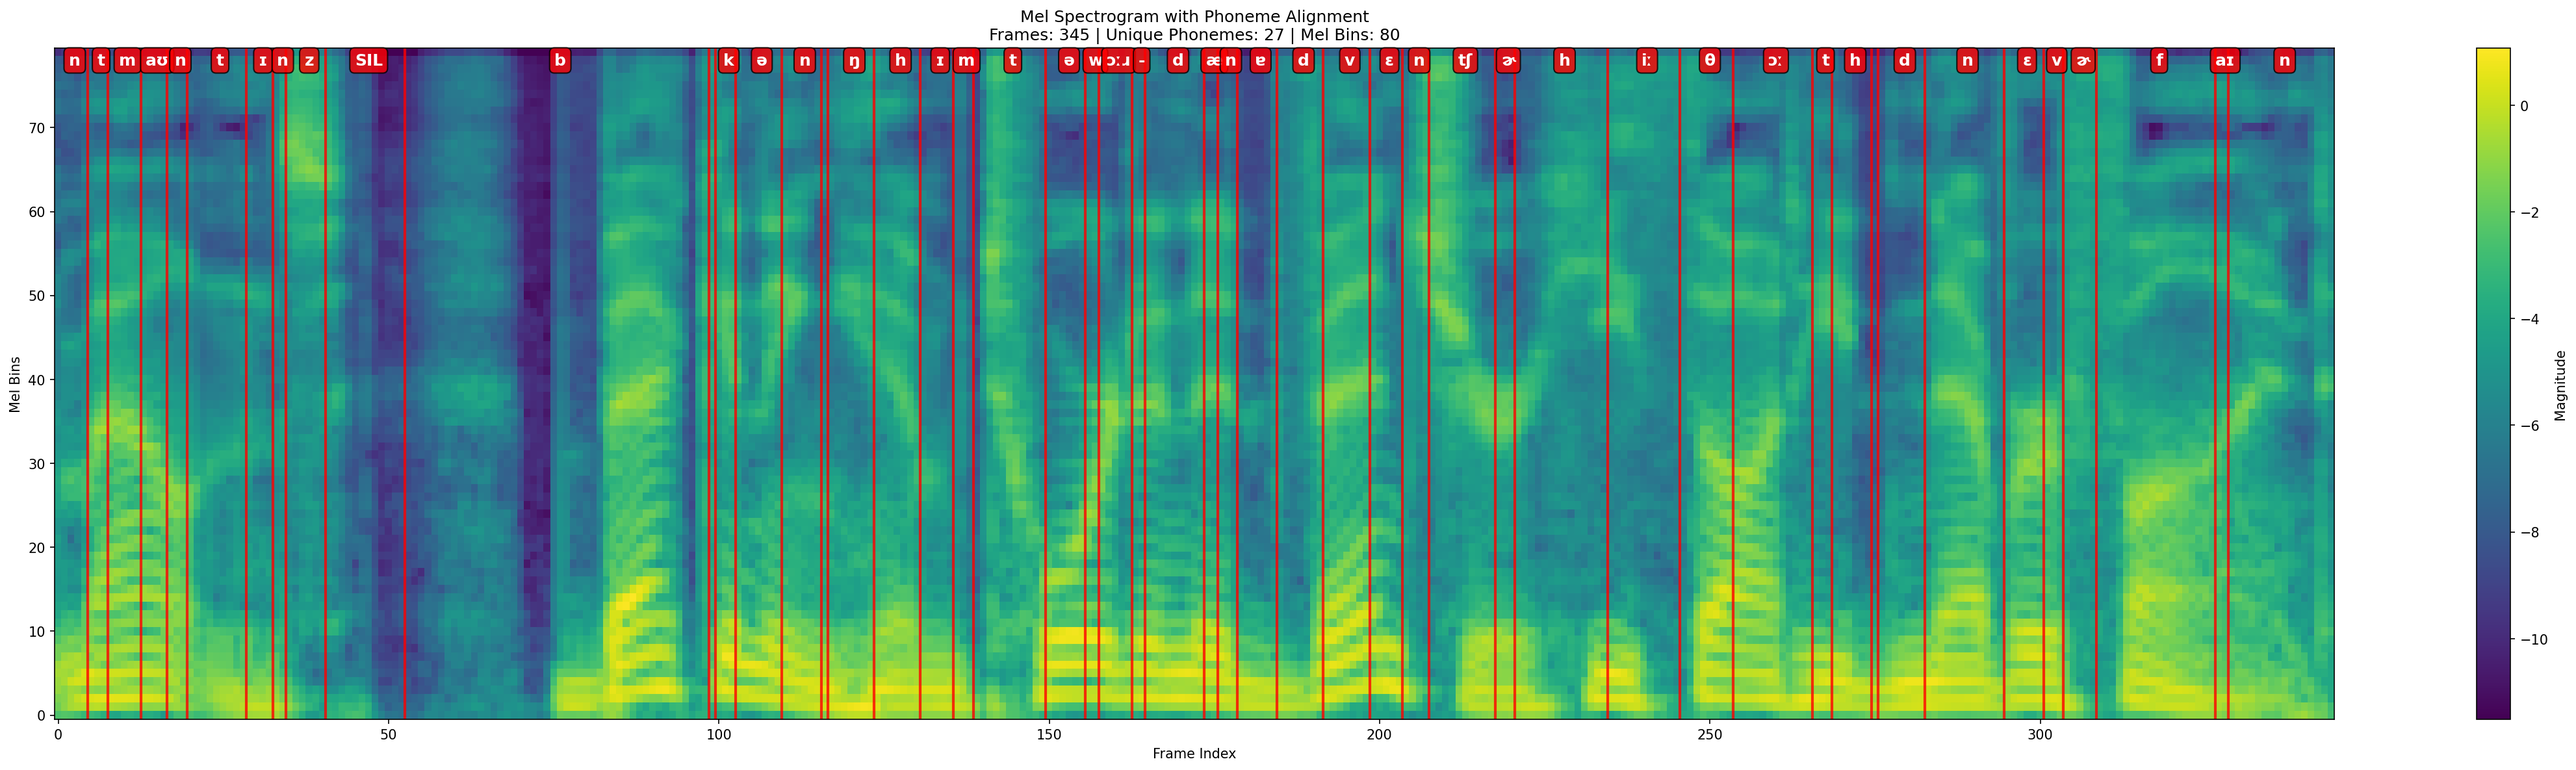
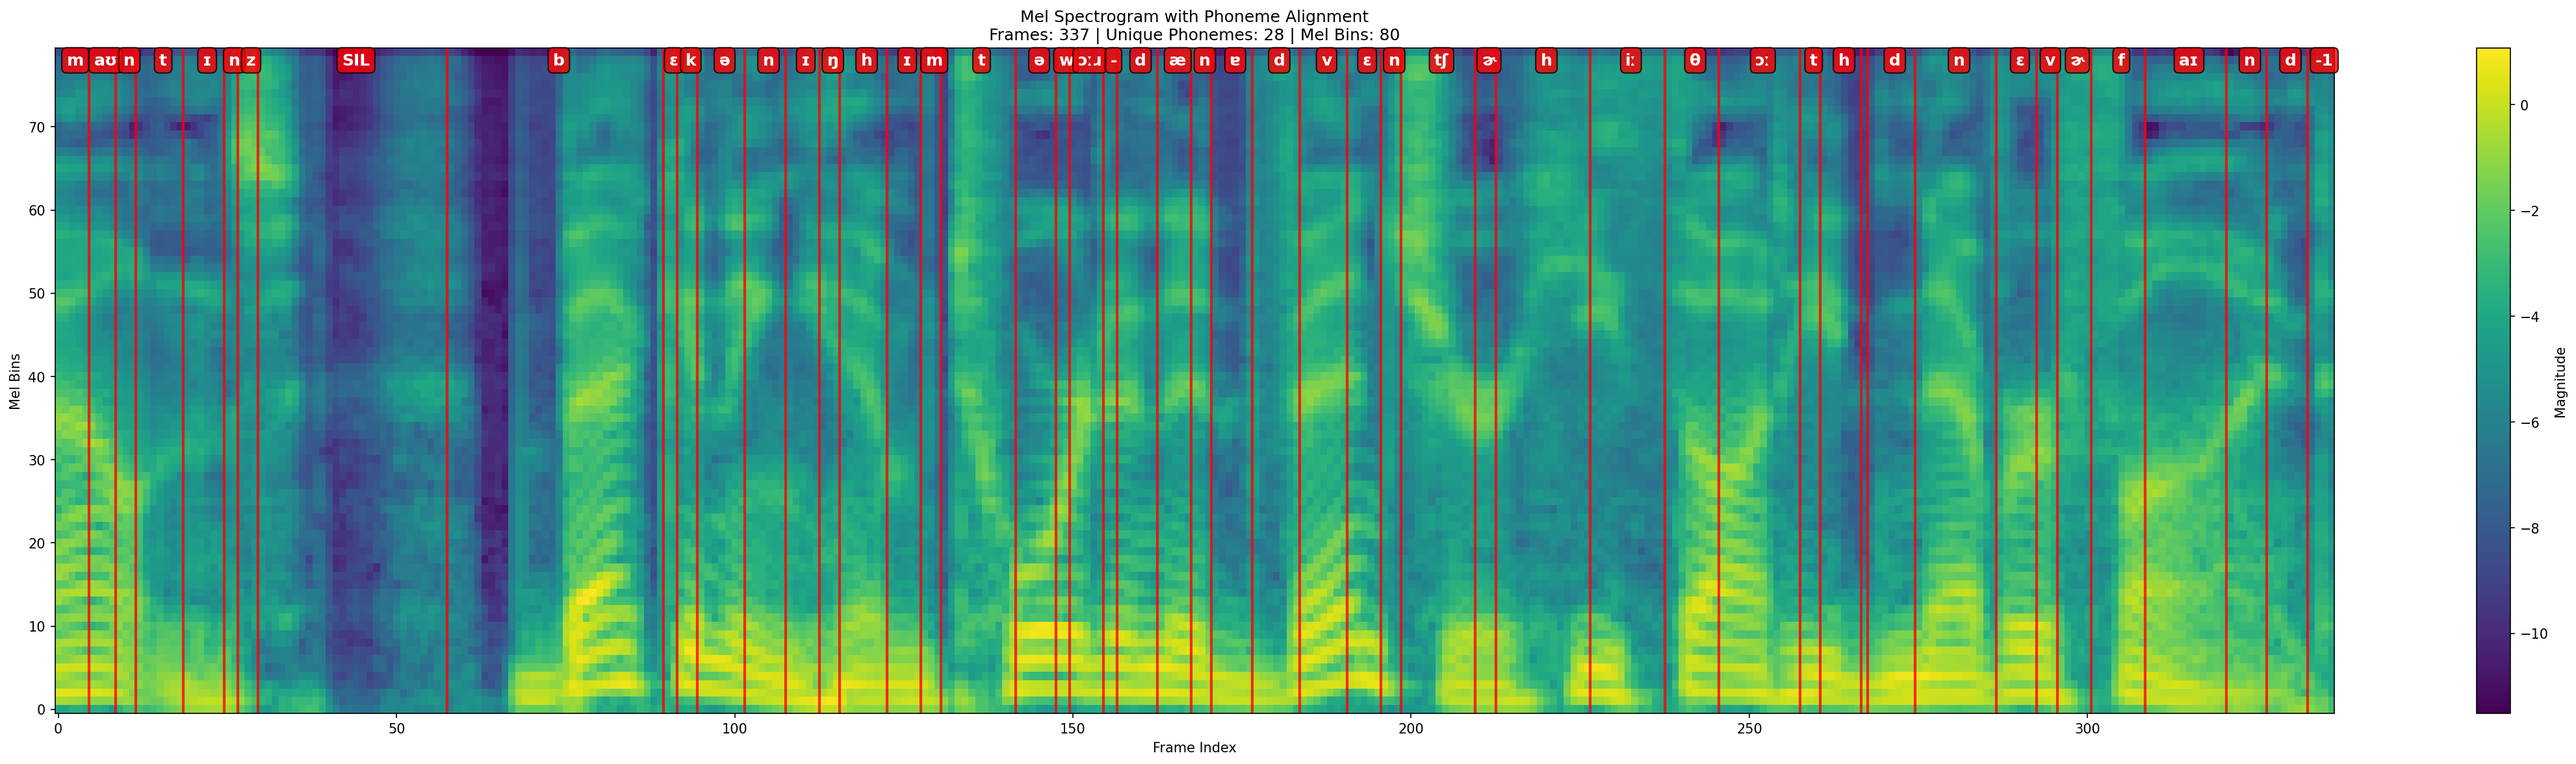
v1.1.3

diff --git a/bournemouth_aligner/core.py b/bournemouth_aligner/core.py
@@ -38,7 +38,7 @@ class PhonemeTimestampAligner:
     URL: https://github.com/tabahi/bournemouth-forced-aligner
     """
 
-    def __init__(self, preset="en-us", model_name=None, cupe_ckpt_path=None, lang='en-us', mapper="ph66", duration_max=30, device="auto", silence_anchors=4, boost_targets=True, enforce_minimum=True, enforce_all_targets=True, ignore_noise=True, extend_soft_boundaries=True, boundary_softness=7, bad_confidence_threshold=0.6):
+    def __init__(self, preset="en-us", model_name=None, cupe_ckpt_path=None, lang='en-us', mapper="ph66", duration_max=30, device="auto", silence_anchors=10, boost_targets=True, enforce_minimum=True, enforce_all_targets=True, ensure_completeness=False,ignore_noise=True, extend_soft_boundaries=True, boundary_softness=7, bad_confidence_threshold=0.6):
         """
         Initialize the BFA phoneme timestamp extractor.
 
@@ -69,12 +69,12 @@ class PhonemeTimestampAligner:
             silence_anchors (int): Silent frames threshold for segment splitting (0 to disable).
             boost_targets (bool): Enhance target phoneme probabilities for better alignment.
             enforce_minimum (bool): Ensure minimum probability threshold for target phonemes.
-            enforce_all_targets (bool): Force all target phonemes to appear in alignment.
+            enforce_all_targets (bool): Force the (viterbi) algorithm to take the path via target phonemes regardless of their probabilities, this is what "forced" alignment means in the context of Viterbi decoding. If false, it can miss some phonemes if their probabilities are too low, but if true, it WILL have 100% coverage of the target phonemes.
+            ensure_completeness (bool): This is a post-processing hack for completeness. It tries to insert missing phonemes in their most likely positions based on the surrounding aligned phonemes and the original target sequence. Can be used in conjunction with enforce_all_targets for extra safety, or can be used on its own to try to recover missed phonemes without forcing the alignment path.
             ignore_noise (bool): Skip predicted noise in alignment output.
             extend_soft_boundaries (bool): Enable the extension of the phoeneme start/end boundaries beyond the core of the phoneme. Use `boundary_softness` to control the leniency of the extension. This can help capture more of the phoneme duration, especially for softer phonemes or in cases where the model's confidence extends beyond the core frames.
             boundary_softness (int): Hyperparameter controlling leniency of boundary extension beyond the core of the phoneme. Default is 7, which corresponds to a threshold of 0.0000001. Set it to 2 or 3 if you want only the cores of the phonemes, or set it to 7 to allow more extension as long as there's any meaningful confidence in the frames between the core and the extended boundary.
             bad_confidence_threshold (float): Threshold for flagging low-confidence alignments (1 to disable), default 0.6,  0.6 would mean if 60% of phonemes have low confidence, a warning is issued, in "segments", ["coverage_analysis"]["bad_confidence"] is set to true. It's recommended to avoid bad-confidence segments for the downstream tasks.
-
         Parameter Priority (highest to lowest):
             1. Explicit cupe_ckpt_path
             2. Explicit model_name
@@ -162,6 +162,7 @@ class PhonemeTimestampAligner:
         self.boost_targets = boost_targets
         self.enforce_minimum = enforce_minimum
         self.enforce_all_targets = enforce_all_targets
+        self.ensure_completeness = ensure_completeness
         self.ignore_noise = ignore_noise
         self.extend_soft_boundaries = extend_soft_boundaries
         self.boundary_softness = boundary_softness
@@ -249,8 +250,8 @@ class PhonemeTimestampAligner:
         """Setup Viterbi decoders for phoneme classes and groups."""
         
         # Alignment utilities
-        self.alignment_utils_g = AlignmentUtils(blank_id=self.blank_group, silence_id=self.silence_group, silence_anchors=self.silence_anchors, ignore_noise=self.ignore_noise)
-        self.alignment_utils_p = AlignmentUtils(blank_id=self.blank_class, silence_id=self.silence_class, silence_anchors=self.silence_anchors, ignore_noise=self.ignore_noise)
+        self.alignment_utils_g = AlignmentUtils(blank_id=self.blank_group, silence_id=self.silence_group, silence_anchors=self.silence_anchors, ignore_noise=self.ignore_noise, truly_forced=self.enforce_all_targets)
+        self.alignment_utils_p = AlignmentUtils(blank_id=self.blank_class, silence_id=self.silence_class, silence_anchors=self.silence_anchors, ignore_noise=self.ignore_noise, truly_forced=self.enforce_all_targets)
 
 
     def download_model(self, model_name="en_libri1000_ua01c_e4_val_GER=0.2186.ckpt", local_dir=None):
@@ -324,12 +325,12 @@ class PhonemeTimestampAligner:
 
 
 
-    def load_audio(self, audio, backend = "ffmpeg", sr=None):
+    def load_audio(self, audio, sr=None):
         """Load and preprocess audio file."""
         
         if isinstance(audio, str):
             audio_path = audio
-            wav, sr = torchaudio.load(audio_path,  frame_offset=0,  normalize=True, backend=backend)
+            wav, sr = torchaudio.load(audio_path,  frame_offset=0,  normalize=True)
 
         elif isinstance(audio, torch.Tensor):
             if sr is None:
@@ -507,7 +508,7 @@ class PhonemeTimestampAligner:
                 if debug: print(f"Removed aligned phonemes with invalid target indices {invalid_target_indices} from batch {batch_idx}.")
 
             # Deduplicate repeated target phonemes: merge consecutive, else keep longest
-            if repeated_targets and self.enforce_all_targets:
+            if repeated_targets and self.ensure_completeness:
                 repeated_frames = {}
                 new_aligned_frames = []
                 for frame in aligned_frames[batch_idx]:
@@ -535,7 +536,7 @@ class PhonemeTimestampAligner:
 
             # Insert missing target phonemes with estimated frame positions
             skipped_sil_indices = set()
-            if missing_targets and self.enforce_all_targets:
+            if missing_targets and self.ensure_completeness:
                 # Build target_idx -> aligned frame lookup
                 target_to_frame = {}
                 for frame in aligned_frames[batch_idx]:
@@ -659,7 +660,7 @@ class PhonemeTimestampAligner:
                     aligned_frames[batch_idx][i] = (*aligned_frames[batch_idx][i], False)
                     self.total_phonemes_aligned_easily += 1
 
-            if self.enforce_all_targets:
+            if self.ensure_completeness:
                 expected_count = len(target_phoneme_ids) - len(skipped_sil_indices)
                 targets_found2 = [0] * len(target_phoneme_ids)
                 for api in range(len(aligned_frames[batch_idx])):

diff --git a/bournemouth_aligner/forced_alignment.py b/bournemouth_aligner/forced_alignment.py
@@ -13,12 +13,13 @@ class ViterbiDecoder:
     Viterbi decoder that ensures all phonemes in the target sequence are aligned,
     even when they have very low probabilities.
     """
-    def __init__(self, blank_id, silence_id, silence_anchors=3,  min_phoneme_prob=1e-8, ignore_noise=True):
+    def __init__(self, blank_id, silence_id, silence_anchors=3,  min_phoneme_prob=1e-8, ignore_noise=True, truly_forced=False):
         self.blank_id = blank_id
         self.silence_id = silence_id
         self.silence_anchors = silence_anchors  # Number of silence frames to anchor pauses
         self.min_phoneme_prob = min_phoneme_prob  # Minimum probability floor for phonemes
         self.ignore_noise = ignore_noise
+        self.truly_forced = truly_forced
         self._neg_inf = -1000.0
         
     def set_blank_id(self, blank_id):
@@ -630,19 +631,41 @@ class ViterbiDecoder:
                 outside_band = (state_indices < center - band_width) | (state_indices > center + band_width)
                 dp[t, outside_band] = self._neg_inf
         
-    
-        # Find best final state
-        final_scores = dp[num_frames-1]
-        valid_mask = final_scores > self._neg_inf
-        if valid_mask.any():
-            valid_indices = torch.where(valid_mask)[0]
-            final_state = valid_indices[torch.argmax(final_scores[valid_indices])]
+
+        if not self.truly_forced:
+            
+
+            # Find best final state
+            final_scores = dp[num_frames-1]
+            valid_mask = final_scores > self._neg_inf
+            if valid_mask.any():
+                valid_indices = torch.where(valid_mask)[0]
+                final_state = valid_indices[torch.argmax(final_scores[valid_indices])]
+            else:
+                final_state = torch.argmax(final_scores)
+
         else:
-            final_state = torch.argmax(final_scores)
+            # Truly forced alignment: path must terminate at the last CTC state so
+            # that every target phoneme is guaranteed to have been visited in order.
+            # ctc_path always ends with a blank, so ctc_len-1 is a valid terminal.
+            final_state = ctc_len - 1
+            if dp[num_frames - 1, final_state] <= self._neg_inf and ctc_len >= 2:
+                # Trailing blank unreachable — accept last-phoneme state as fallback
+                final_state = ctc_len - 2
+            if dp[num_frames - 1, final_state] <= self._neg_inf:
+                # Shouldn't happen with a valid CTC path — use rightmost reachable state
+                valid_mask = dp[num_frames - 1] > self._neg_inf
+                if valid_mask.any():
+                    final_state = torch.where(valid_mask)[0][-1]  # rightmost = closest to end
+                else:
+                    final_state = torch.tensor(ctc_len - 1, device=device)
+
         
         # Backtrack
         path_states = torch.zeros(num_frames, dtype=torch.long, device=device)
         path_states[num_frames-1] = final_state
+
+
         
         for t in range(num_frames-2, -1, -1):
             path_states[t] = backpointers[t+1, path_states[t+1]]
@@ -794,7 +817,7 @@ class AlignmentUtils: # 2025-09-10
     Alignment utilities with forced alignment fixes.
     """
     
-    def __init__(self, blank_id, silence_id, silence_anchors=10, ignore_noise=True):
+    def __init__(self, blank_id, silence_id, silence_anchors=10, ignore_noise=True, truly_forced=True):
         '''
         Initialize AlignmentUtils.
         Args:
@@ -805,7 +828,8 @@ class AlignmentUtils: # 2025-09-10
         self.blank_id = blank_id
         self.silence_id = silence_id
         self.silence_anchors = silence_anchors  # Number of silence frames to anchor pauses
-        self.viterbi_decoder = ViterbiDecoder(blank_id, silence_id, silence_anchors=self.silence_anchors, ignore_noise=ignore_noise)
+        self.truly_forced = truly_forced
+        self.viterbi_decoder = ViterbiDecoder(blank_id, silence_id, silence_anchors=self.silence_anchors, ignore_noise=ignore_noise, truly_forced=self.truly_forced)
     
     
     def decode_alignments(self, log_probs, true_seqs=None, pred_lens=None, 

diff --git a/bournemouth_aligner/cli.py b/bournemouth_aligner/cli.py
@@ -4,7 +4,7 @@ import os
 from .core import PhonemeTimestampAligner
 from .presets import get_preset
 
-__version__ = "1.1.2"
+__version__ = "1.1.3"
 
 # ---------------------------------------------------------------------------
 # Helpers
@@ -58,7 +58,7 @@ def _resolve_model_lang(preset, model, lang):
               help='Maximum segment duration in seconds (for windowed processing).')
 @click.option('--boost-targets/--no-boost-targets', default=True,
               help='Boost expected phoneme probabilities before Viterbi alignment.')
-@click.option('--silence-anchors', default=4, type=int, show_default=True,
+@click.option('--silence-anchors', default=10, type=int, show_default=True,
               help='Number of silent frames to anchor at silences (punctuations) to help break the long segments. ')
 # ---- misc ----
 @click.option('--debug/--no-debug', default=False,

diff --git a/setup.py b/setup.py
@@ -12,7 +12,7 @@ def read_readme():
 
 setup(
     name="bournemouth-forced-aligner",
-    version="1.1.2",
+    version="1.1.3",
     packages=find_packages(exclude=["tests*", "docs*", "examples*"]),
     python_requires=">=3.8",
     

diff --git a/README.md b/README.md
@@ -81,6 +81,16 @@ sudo apt-get install espeak-ng ffmpeg
 brew install espeak-ng ffmpeg
 ```
 
+Or install everything in the conda environment
+```bash
+conda create -n bfa
+conda activate bfa
+conda install pip
+conda install "ffmpeg"
+# or
+conda install "ffmpeg" -c conda-forge
+```
+
 **Windows:**  
 Download and install [eSpeak NG](https://github.com/espeak-ng/espeak-ng/blob/master/docs/guide.md) and [ffmpeg](https://ffmpeg.org/download.html), then add both to your system PATH.
 
@@ -93,7 +103,7 @@ pip install bournemouth-forced-aligner
 ### Step 3 — Verify it works
 
 ```bash
-python -c "from bournemouth_aligner import PhonemeTimestampAligner; print('Installation successful!')"
+python -c "from bournemouth_aligner import PhonemeTimestampAligner; print('Installation successful')"
 ```
 
 ---
@@ -634,7 +644,8 @@ PhonemeTimestampAligner(
 | `silence_anchors` | `0` | When >0, uses detected silences as anchor points to improve long-segment alignment. Try `3`. |
 | `boost_targets` | `True` | Increases the acoustic probability of expected phonemes before Viterbi decoding. |
 | `enforce_minimum` | `True` | Prevents any target phoneme from being completely zeroed out by the model. |
-| `enforce_all_targets` | `True` | After decoding, inserts any missing phonemes at their best estimated position. Set `False` for strictly probabilistic output. |
+| `enforce_all_targets` | `True` | Enable "forced" alignment (according to the given true phoneme sequence) instead of most probable alignment (when `False`) according to the predicted phoneme probabilties. |
+| `ensure_completeness` | `False` | After decoding, inserts any missing phonemes at their best estimated position. Set `True` for extra completeness gaurantee. |
 | `ignore_noise` | `True` | Drops predicted noise/silence frames from output. Set `False` to include them as `"noise"` entries. |
 | `extend_soft_boundaries` | `True` | Extends phoneme boundaries into adjacent frames that still carry some acoustic evidence. |
 | `boundary_softness` | `7` | Controls how far boundaries extend. `2`–`3` = tight phoneme cores; `7` = generous boundaries. |
@@ -1097,9 +1108,9 @@ Generate this automatically with [Whisper](#integration-examples) or write it by
 
 ## 🧠 How It Works
 
-BFA is built on the **CUPE (Contextless Universal Phoneme Encoder)** model. Unlike HMM-based aligners like MFA, CUPE is a neural network that processes audio frame-by-frame independently (no context window), which is what makes it fast.
+BFA is built on the **CUPE (Contextless Universal Phoneme Encoder)** model. Unlike HMM-based aligners like MFA, CUPE is a neural network that processes audio frame-by-frame independently (no context window), which is what makes it multilingual.
 
-Read the full paper: [BFA: Real-Time Multilingual Text-to-Speech Forced Alignment (arXiv 2509.23147)](https://arxiv.org/pdf/2509.23147)
+[BFA: Multilingual Text-to-Speech Forced Alignment](https://arxiv.org/pdf/2509.23147)
 
 ### Alignment pipeline
 
@@ -1138,7 +1149,7 @@ graph TD
 
 BFA exposes several parameters not available in traditional aligners like MFA:
 
-#### 🎯 `boost_targets` (Default: `True`)
+#### `boost_targets` (Default: `True`)
 Increases log-probabilities of expected phonemes by a fixed boost factor (typically +5.0) before Viterbi decoding. If the sentence is very long or contains every possible phoneme, then boosting them all equally doesn't have much effect—because no phoneme stands out more than the others.
 
 **When it helps:**
@@ -1148,7 +1159,7 @@ Increases log-probabilities of expected phonemes by a fixed boost factor (typica
 
 **Important caveat:** For monolingual sentences, boosting affects ALL phonemes in the target sequence equally, making it equivalent to no boosting. The real benefit comes when using multilingual models or when certain phonemes are systematically underrepresented.
 
-#### 🛡 `enforce_minimum` (Default: `True`) 
+#### `enforce_minimum` (Default: `True`) 
 Ensures every target phoneme has at least a minimum probability (default: 1e-8) at each frame, preventing complete elimination during alignment.
 
 **Why this matters:**
@@ -1156,8 +1167,12 @@ Ensures every target phoneme has at least a minimum probability (default: 1e-8) 
 - Guarantees that even very quiet or unclear phonemes can be aligned
 - Helps for highly noisy audio in which all phonemes, not just targets, have extremely low probabilities.
 
-#### 🔒 `enforce_all_targets` (Default: `True`)
-**This is BFA's key differentiator from MFA.** After Viterbi decoding, BFA applies post-processing to guarantee that every target phoneme is present in the final alignment—even those with low acoustic probability. However, **downstream tasks can filter out these "forced" phonemes using their confidence scores**. For practical use, consider setting a confidence threshold  e.g., `timestamps["phoneme_ts"][p]["confidence"] <0.05`) to exclude phonemes that were aligned with little to no acoustic evidence.
+
+#### `enforce_all_targets` (Default: `True`)
+Force the (viterbi) algorithm to take the path via target phonemes regardless of their probabilities, this is what "forced" alignment means in the context of Viterbi decoding. If `False`, it can miss some phonemes if their probabilities are too low, but if true, it WILL have 100% coverage of the target phonemes.
+
+#### `ensure_completeness` (Default: `False`)
+This enables a post-processing step for extra completeness checks. It tries to insert missing phonemes in their most likely positions based on the surrounding aligned phonemes and the original target sequence. Can be used in conjunction with enforce_all_targets for extra safety, or can be used on its own to try to recover missed phonemes without forcing the alignment path.. However, **downstream tasks can filter out these "forced" phonemes using their confidence scores**. For practical use, consider setting a confidence threshold  e.g., `timestamps["phoneme_ts"][p]["confidence"] <0.05`) to exclude phonemes that were aligned with little to no acoustic evidence.  
 
 **Recovery mechanism:**
 1. Identifies any missing target phonemes after initial alignment
@@ -1220,7 +1235,6 @@ BFA and [MFA](https://montreal-forced-aligner.readthedocs.io/) are both forced a
 |--------|-----|-----|
 | **Speed** | ~0.2 s per 10 s of audio | ~10 s per 2 s of audio |
 | **No dictionary needed** | ✅ espeak-ng generates phonemes on the fly | ❌ Requires a pronunciation dictionary |
-| **Real-time capable** | ✅ Yes (contextless frame processing) | ❌ No |
 | **Stop consonants (t, d, p, k)** | ✅ More precise boundaries | ⚠ Tends to extend too far |
 | **Tail endings** | ⚠ Occasionally misses | ❌ Often missed |
 | **Breathy sounds (h)** | ⚠ Sometimes misses | ✅ Usually captures |

diff --git a/CHANGELOG.md b/CHANGELOG.md
@@ -1,5 +1,10 @@
 # Changelog
 
+## [1.1.3] - 2026-02-28
+- Fixed the bug: The viterbi algorithm didn't really do "forced" alignment before since v1.1.0. Now it does as long as `enforce_all_targets=True` is set.
+- Added another layer for completeness. `ensure_completeness=True` (default: False). This is a post-processing hack for completeness. It tries to insert missing phonemes in their most likely positions based on the surrounding aligned phonemes and the original target sequence.
+- [torchcodec](https://github.com/meta-pytorch/torchcodec) dependency.  
+
 ## [1.1.2] - 2026-02-23
 - Added `load_model()` so that the models can be loaded after `__init__`, while the class `PhonemeTimestampAligner(lang ='en-us') can be initialized without specifying a model.`
 - Added more CLI functionality. Direct text input. Generate mel-spectrum directly from blaign cli command.
